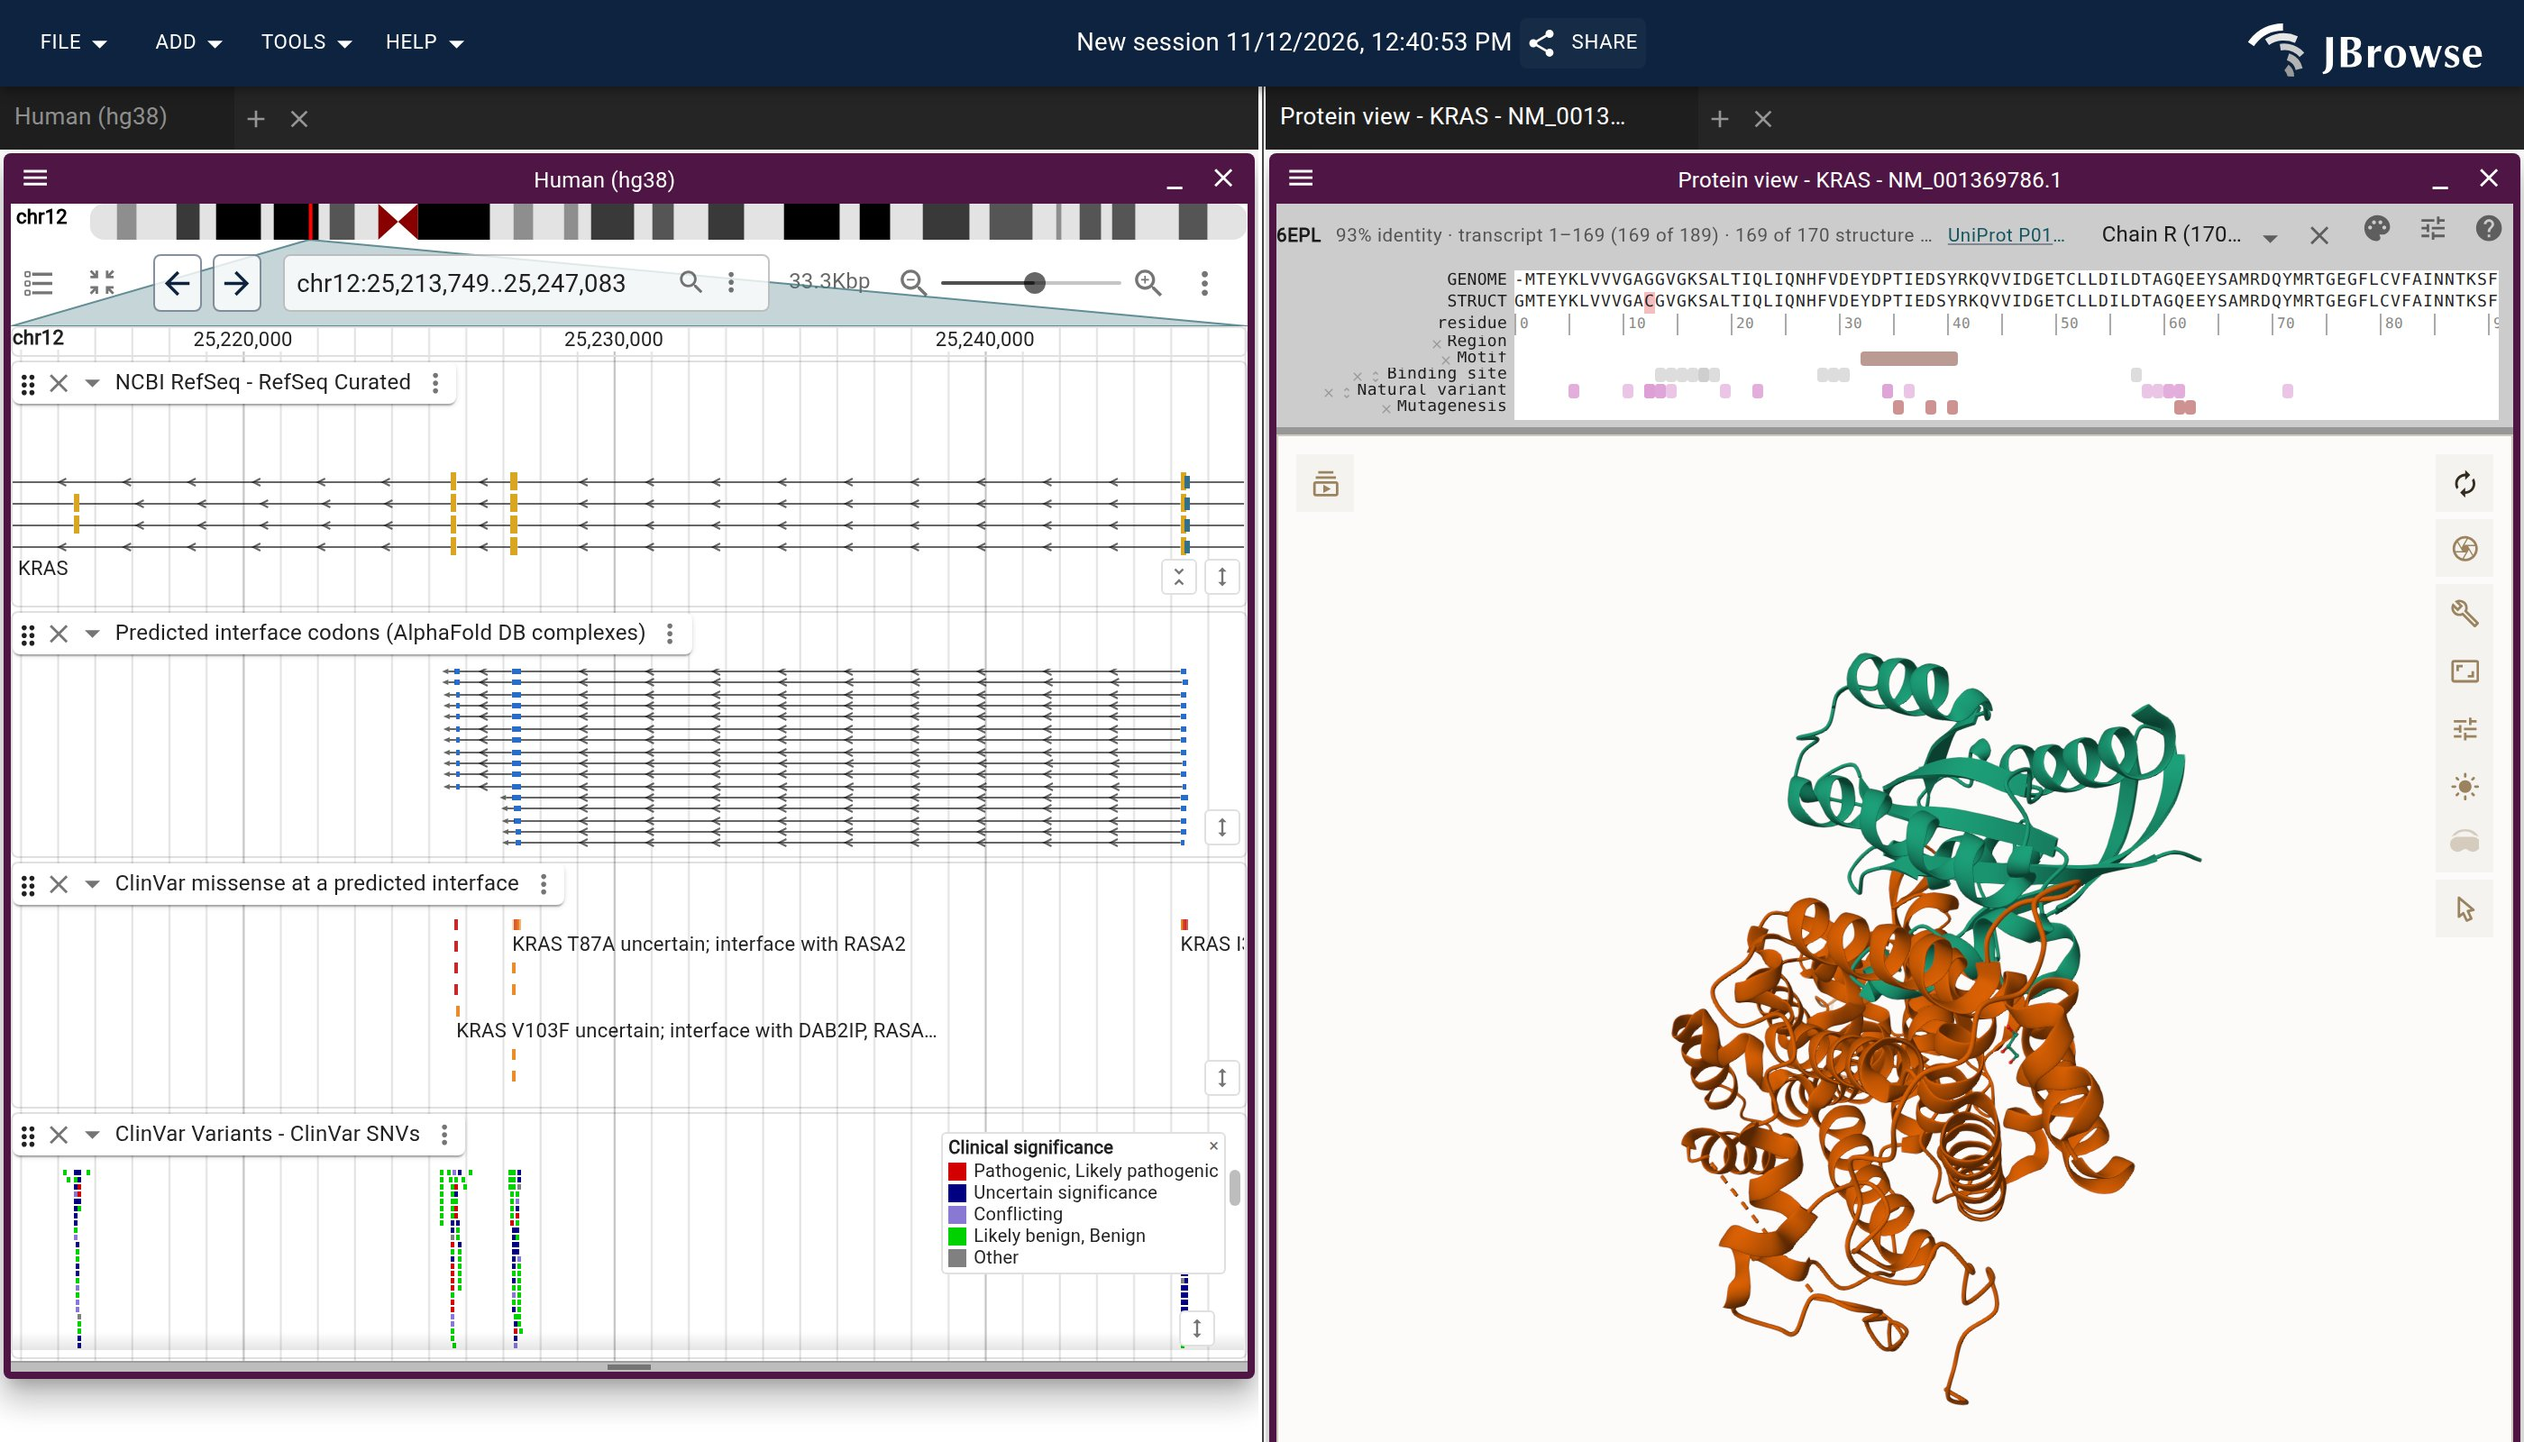
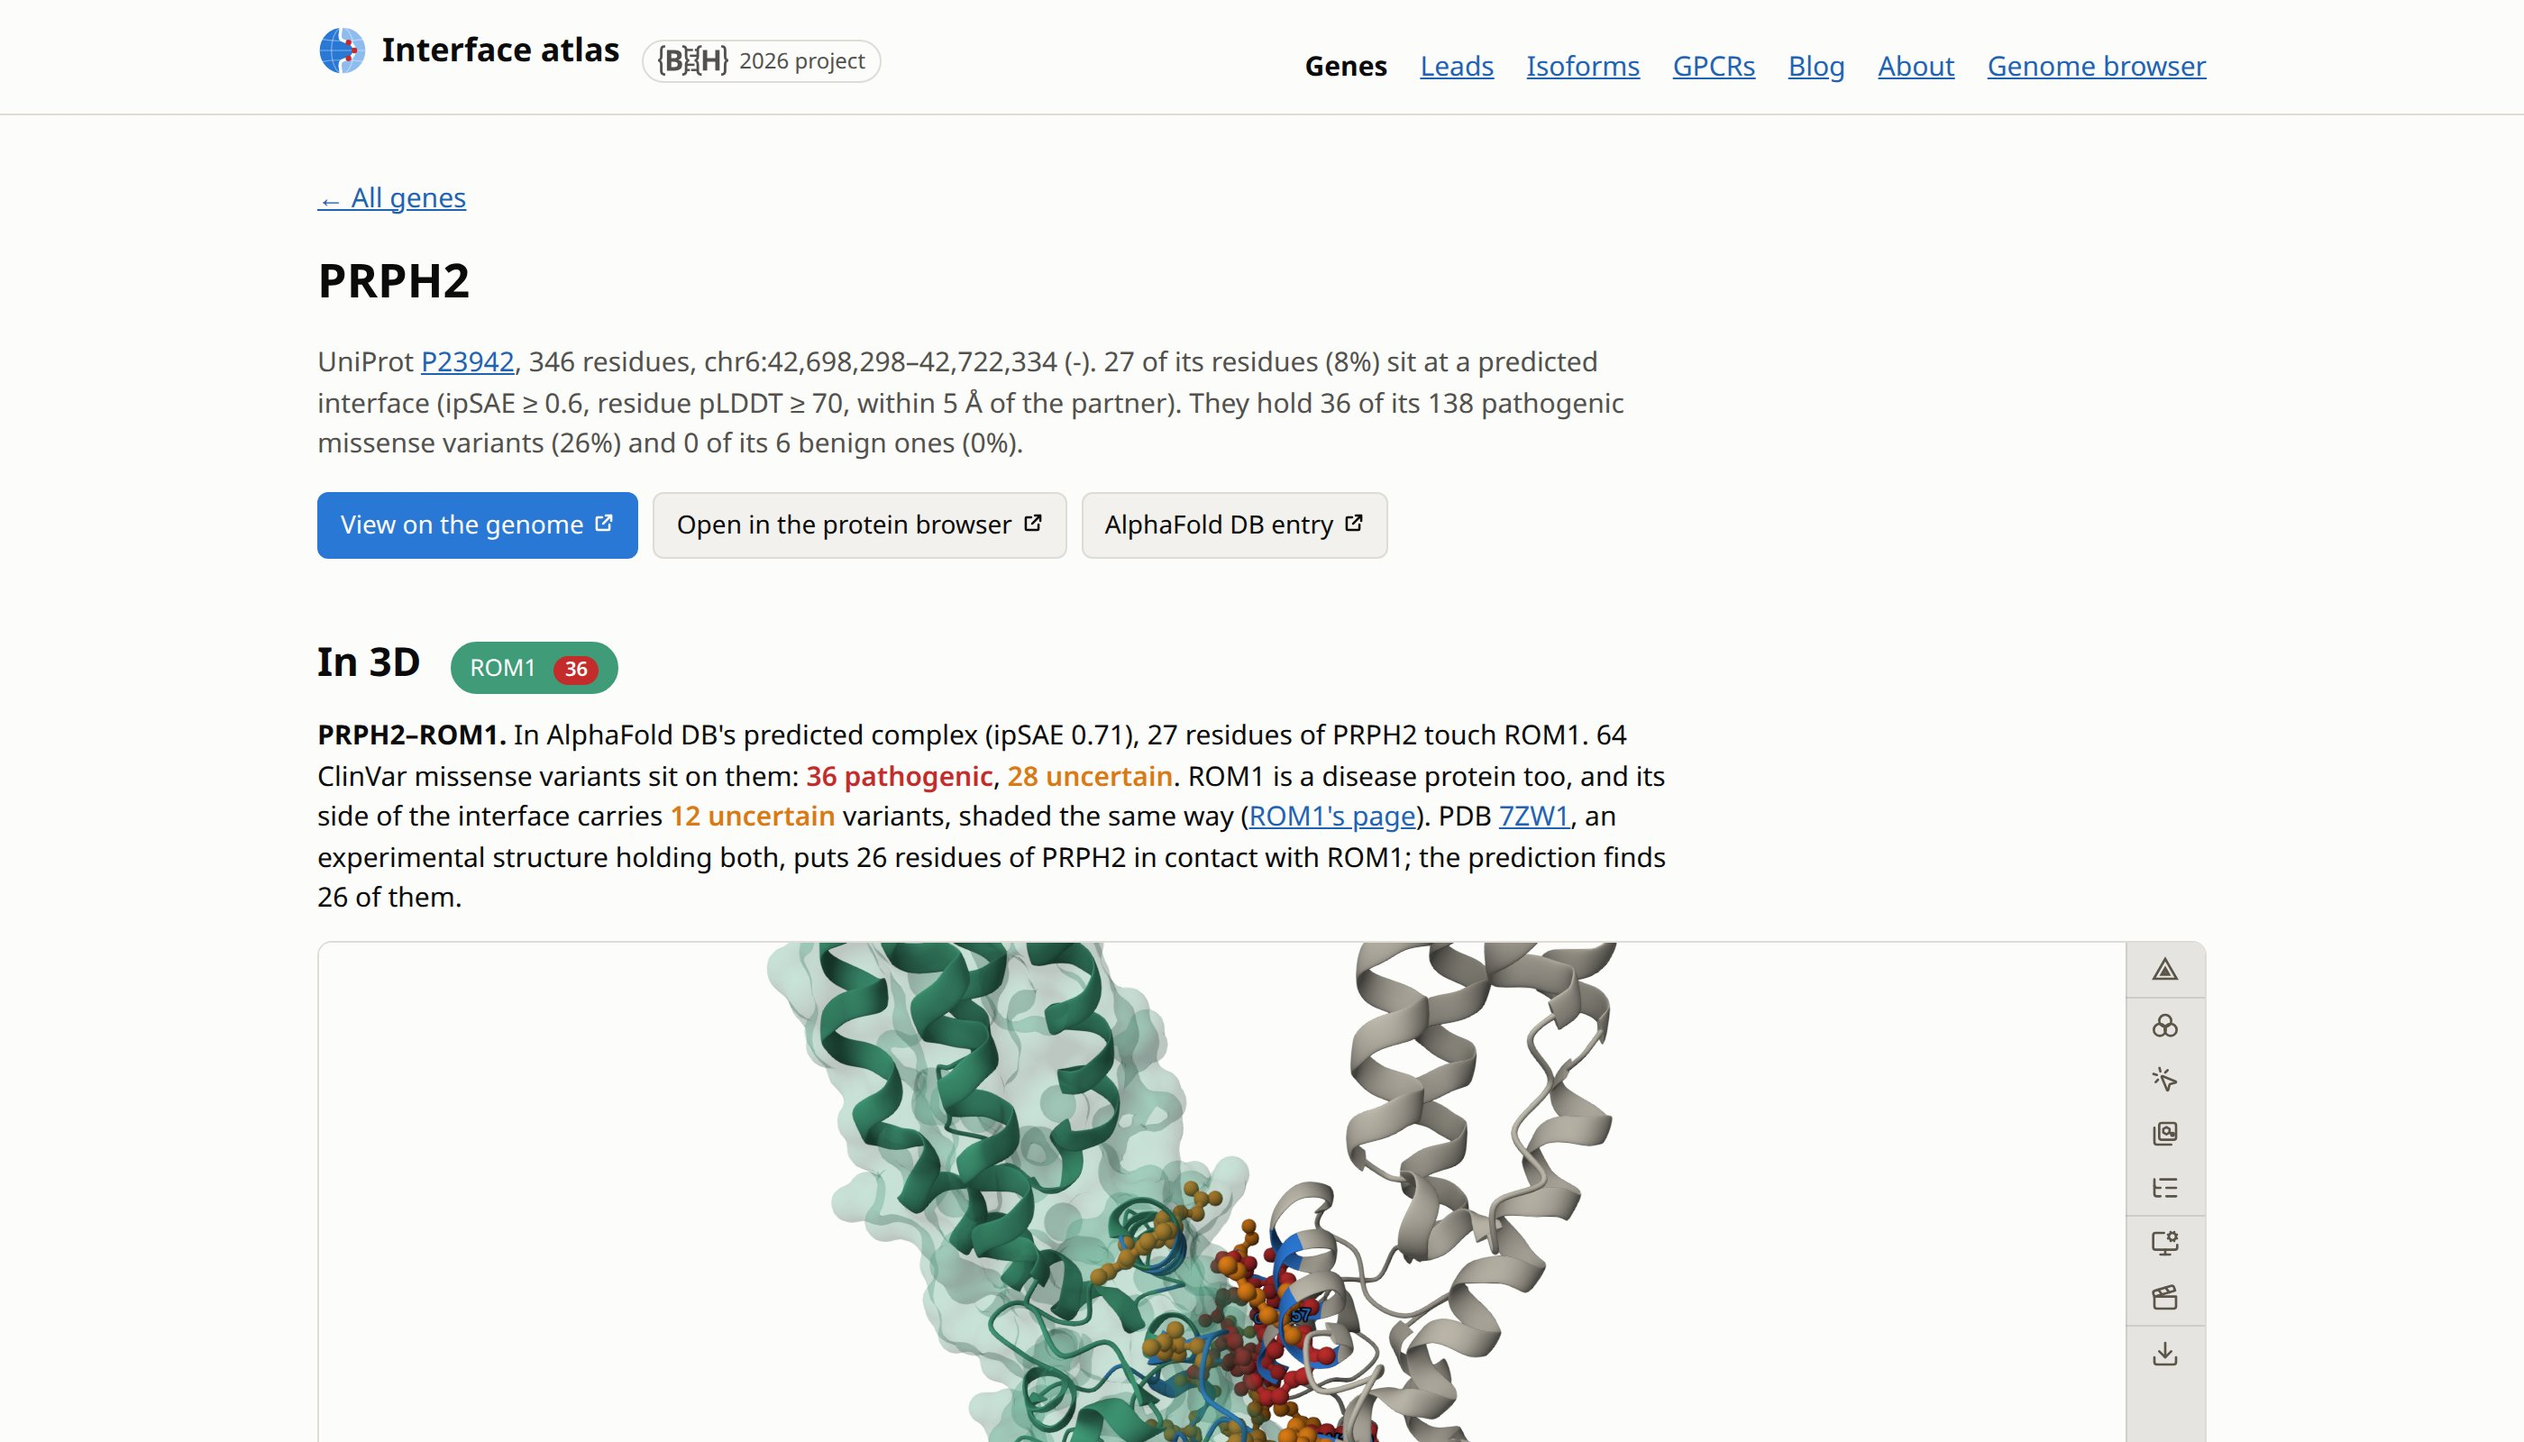
Open gene pages and blog cases on experimentally confirmed partners, and name strong examples in the posts
- A gene page now opens on the partner with the most pathogenic variants among
  those an experimental structure confirms, then those no structure covers,
  then those one contradicts (KRAS opens on SOS1 rather than RGL2)
- The blog's gene cases use the same choice (GNAO1 opens with GNB1)
- The validation post names PRPH2-ROM1, solved after AlphaFold's training and
  predicted residue for residue, and uses its gene page as the hero
- VHL's case notes 4WQO confirms all 27 interface residues; the findings post
  names PSEN1 F86L as a lead on an interface 5A63 confirms

diff --git a/web/lib/structure.ts b/web/lib/structure.ts
@@ -61,6 +61,24 @@ export function structureData(gene: Gene) {
   return { partners, variants: gene.variants.map(v => sceneVariant(v)) }
 }
 
+export const AGREEMENT = { confirmed: 2, unchecked: 1, contradicted: 0 }
+
+function agreement(experiment: Partner['experiment']) {
+  return experiment?.experimental
+    ? experiment.shared >= experiment.experimental / 2
+      ? AGREEMENT.confirmed
+      : AGREEMENT.contradicted
+    : AGREEMENT.unchecked
+}
+
+export function leadPartner(candidates: { gene: string; pathogenic: number; agreement: number }[]) {
+  const rank = (c: (typeof candidates)[number]) => [Math.sign(c.pathogenic), c.agreement, c.pathogenic]
+  return candidates.toSorted((a, b) => {
+    const ra = rank(a)
+    return rank(b).map((x, i) => x - (ra[i] ?? 0)).find(d => d !== 0) ?? 0
+  })[0]?.gene
+}
+
 export function stories(gene: Gene) {
   return gene.partners.flatMap(p => {
     const residues = new Set(partnerResidues(p))
@@ -93,13 +111,10 @@ export function stories(gene: Gene) {
     ]
       .filter(Boolean)
       .join(' ')
-    return p.chain ? [{ gene: p.gene, pathogenic, html }] : []
+    return p.chain ? [{ gene: p.gene, pathogenic, agreement: agreement(experiment), html }] : []
   })
 }
 
 export function initialPartner(gene: Gene) {
-  return stories(gene).reduce<{ gene: string; pathogenic: number } | undefined>(
-    (best, s) => (!best || s.pathogenic > best.pathogenic ? s : best),
-    undefined,
-  )?.gene
+  return leadPartner(stories(gene))
 }

diff --git a/web/lib/structure.test.ts b/web/lib/structure.test.ts
@@ -1,0 +1,24 @@
+import { expect, test } from 'vitest'
+
+import { AGREEMENT, leadPartner } from './structure.ts'
+
+test('a gene page opens on a partner that experiment confirms, among those with pathogenic variants', () => {
+  expect(
+    leadPartner([
+      { gene: 'RGL2', pathogenic: 34, agreement: AGREEMENT.contradicted },
+      { gene: 'RASA1', pathogenic: 24, agreement: AGREEMENT.unchecked },
+      { gene: 'SOS1', pathogenic: 19, agreement: AGREEMENT.confirmed },
+      { gene: 'GRB7', pathogenic: 0, agreement: AGREEMENT.confirmed },
+    ]),
+  ).toBe('SOS1')
+})
+
+test('pathogenic variants outrank agreement, and count breaks ties', () => {
+  expect(
+    leadPartner([
+      { gene: 'A', pathogenic: 0, agreement: AGREEMENT.confirmed },
+      { gene: 'B', pathogenic: 2, agreement: AGREEMENT.unchecked },
+      { gene: 'C', pathogenic: 5, agreement: AGREEMENT.unchecked },
+    ]),
+  ).toBe('C')
+})

diff --git a/src/heroes.ts b/src/heroes.ts
@@ -1,13 +1,7 @@
 import { readFileSync } from 'node:fs'
 import { join } from 'node:path'
 
-import {
-  INTERFACE_TRACKS,
-  geneLocus,
-  pdbSpec,
-  sessionUrl,
-  variantSpec,
-} from './links.ts'
+import { sessionUrl, variantSpec } from './links.ts'
 import type { GenePage } from './pages.ts'
 import { ROOT, SITE_DATA } from './paths.ts'
 import { LIVE, screenshots } from './screenshots.ts'
@@ -44,13 +38,9 @@ await screenshots(
     },
     {
       name: 'are-the-interfaces-real',
-      url: () =>
-        sessionUrl(
-          pdbSpec('KRAS', '6EPL', geneLocus(gene('KRAS')), INTERFACE_TRACKS),
-          jbrowse,
-        ),
+      url: () => `${LIVE}gene/PRPH2/?partner=ROM1`,
       height: 800,
-      wait: 45,
+      wait: 30,
     },
     {
       name: 'project-9-gpcrs',

diff --git a/web/lib/cases.ts b/web/lib/cases.ts
@@ -3,10 +3,12 @@ import { gene, isoform, isoformTotals } from './data.ts'
 import { esc } from './html.ts'
 import { isoformMap, proteinMap } from './maps.ts'
 import { JBROWSE, geneHref, href, isoformHref } from './site.ts'
+import { initialPartner } from './structure.ts'
 
 export function geneCase(page: string) {
   const g = gene(page)
-  const partner = g.partners.toSorted((a, b) => b.variants - a.variants)[0]
+  const lead = initialPartner(g)
+  const partner = g.partners.find(p => p.gene === lead)
   return `
     ${proteinMap(g)}
     <div class="actions">

diff --git a/README.md b/README.md
@@ -18,7 +18,8 @@ one.
 - **Genes:** a searchable table of the 1,331 disease genes with a confident
   predicted partner. Each gene page opens on its predicted complex in 3D,
   starting with the partner whose interface carries the most pathogenic
-  variants. The page's protein is grey, the partner green under a translucent
+  variants, preferring one that an experimental structure confirms over one no
+  structure covers, and either over one a structure contradicts. The page's protein is grey, the partner green under a translucent
   surface, and its interface residues blue; the ClinVar variants on them are
   coloured by classification. A sentence above the 3D view gives each partner's
   counts, the PDB entry that confirms it, and any UniProt region annotated as
